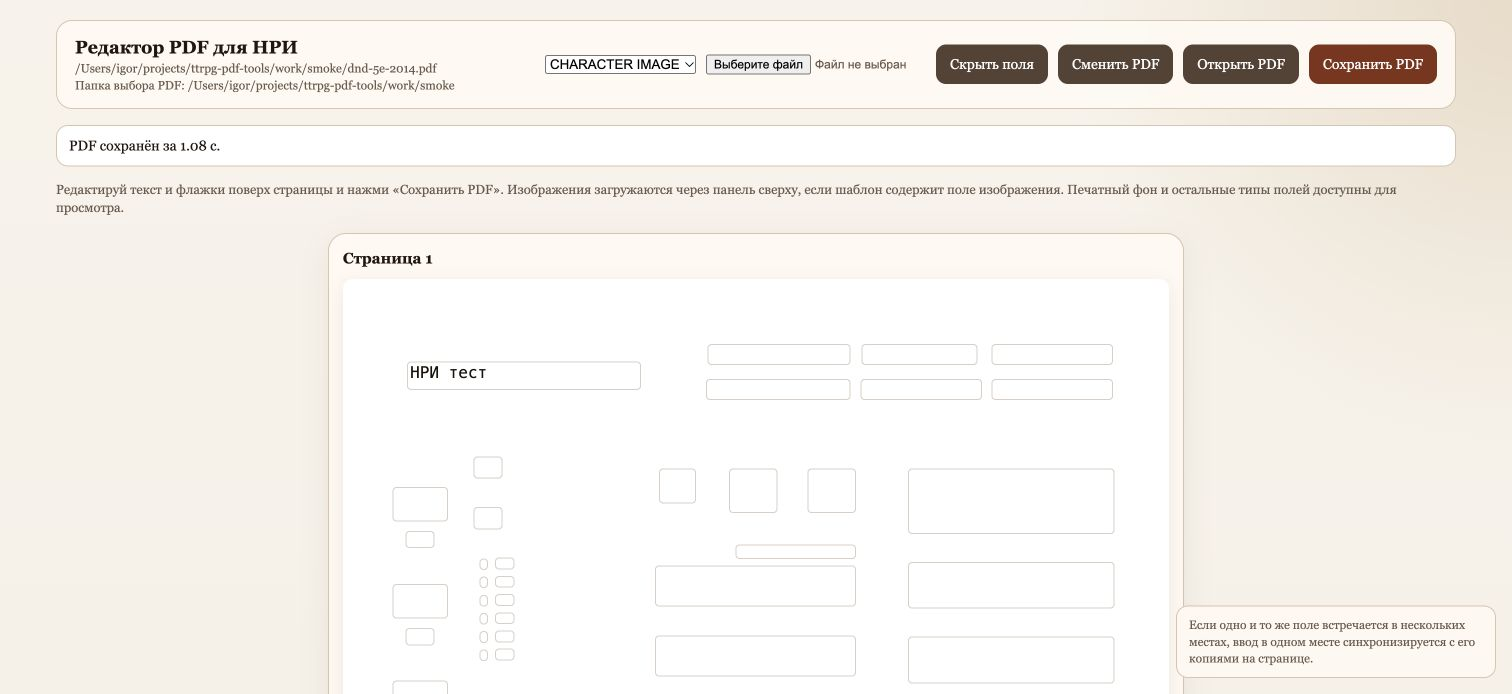
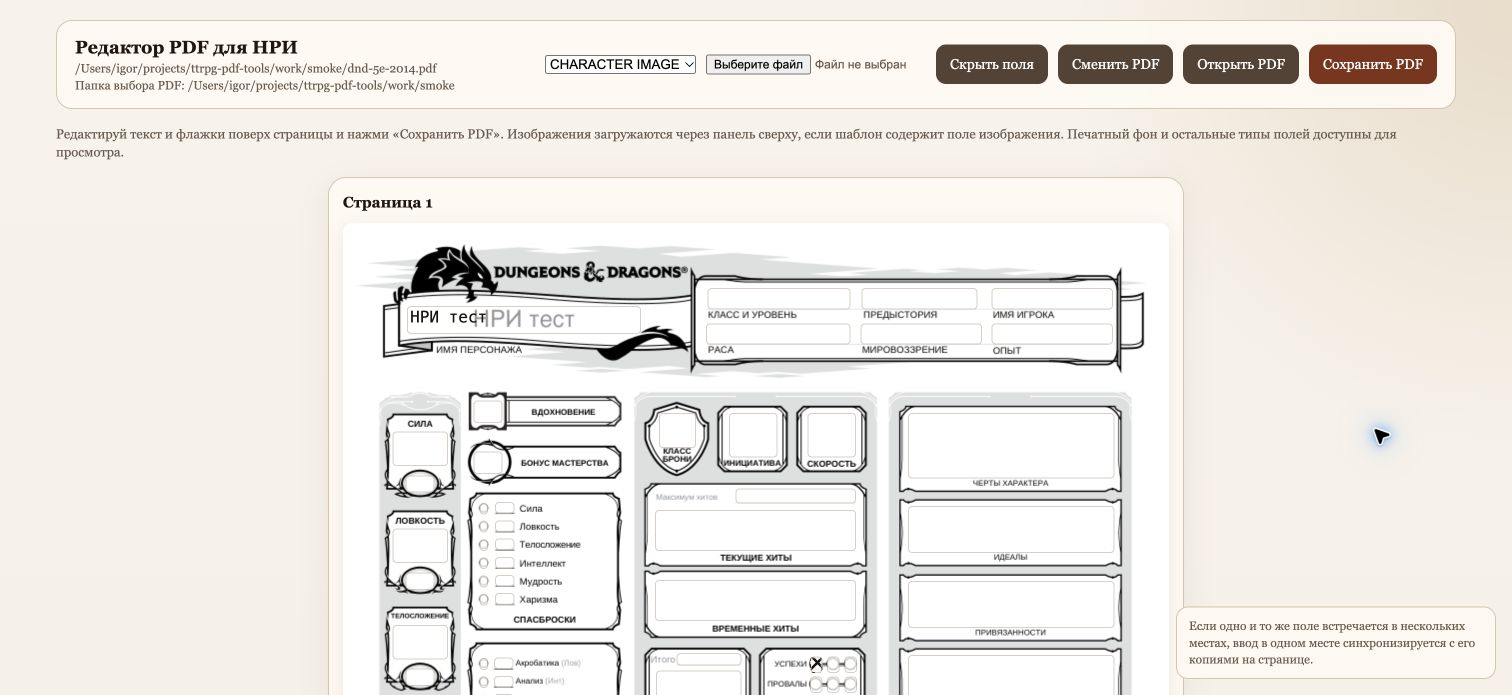
Restore translucent fields for PDF rendering preview

Changed region(s): [[0.0311, 0.1816, 0.9636, 1.0], [0.9015, 0.6052, 0.9325, 0.6657]]

diff --git a/scripts/pdf_form_web_editor.py b/scripts/pdf_form_web_editor.py
@@ -104,7 +104,7 @@ def html_page(title: str, body: str) -> bytes:
       --line: #d7c5af;
       --accent: #7f3119;
       --accent-2: #564235;
-      --field: #fff;
+      --field: rgba(255,255,255,0.82);
       --field-border: rgba(120, 80, 50, 0.28);
     }}
     * {{ box-sizing: border-box; }}
@@ -251,7 +251,7 @@ def html_page(title: str, body: str) -> bytes:
       margin: 0;
       padding: 0;
       border: 1px solid var(--field-border);
-      background: var(--field);
+      background: rgba(255,255,255,0.58);
       color: #17120d;
       border-radius: 4px;
       box-shadow: inset 0 0 0 1px rgba(255,255,255,0.32);
@@ -260,7 +260,7 @@ def html_page(title: str, body: str) -> bytes:
     }}
     .field:focus {{
       outline: 2px solid rgba(127, 49, 25, 0.45);
-      background: var(--field);
+      background: rgba(255,255,255,0.95);
       z-index: 5;
     }}
     .field.text {{
@@ -274,7 +274,7 @@ def html_page(title: str, body: str) -> bytes:
     }}
     .field.checkbox {{
       appearance: none;
-      background: var(--field);
+      background: rgba(255,255,255,0.7);
     }}
     .field.checkbox::after {{
       content: "";
@@ -286,7 +286,7 @@ def html_page(title: str, body: str) -> bytes:
       background:
         linear-gradient(135deg, transparent 40%, #1b1712 40%, #1b1712 53%, transparent 53%),
         linear-gradient(45deg, transparent 58%, #1b1712 58%, #1b1712 71%, transparent 71%),
-        var(--field);
+        rgba(255,255,255,0.92);
     }}
     .legend {{
       position: fixed;

diff --git a/README.md b/README.md
@@ -18,7 +18,7 @@ cp templates/pathfinder-2e/RM_CharacterSheet_Fillable.pdf templates/local/my-cha
 uv run python scripts/pdf_form_web_editor.py templates/local/my-character.pdf --open-browser
 ```
 
-Редактируй текст и флажки поверх страниц, затем нажми **Сохранить PDF**. Подбор размера заполненного текста выполняется при каждом сохранении. Кнопка **Сменить PDF** открывает выбор файлов из `templates/local/`; другой корень задаётся через `--picker-dir /path/to/folder`. Кнопка **Открыть PDF** показывает текущий файл в Chrome. Клавиша `f` и кнопка **Скрыть поля** переключают видимость полей поверх страницы.
+Редактируй текст и флажки поверх страниц, затем нажми **Сохранить PDF**. Подбор размера заполненного текста выполняется при каждом сохранении. Поля полупрозрачны: текст уже сохранённого PDF виден под вводом, чтобы сверять его итоговый размер и положение. Новый ввод появляется в рендере после сохранения. Кнопка **Сменить PDF** открывает выбор файлов из `templates/local/`; другой корень задаётся через `--picker-dir /path/to/folder`. Кнопка **Открыть PDF** показывает текущий файл в Chrome. Клавиша `f` и кнопка **Скрыть поля** переключают видимость полей поверх страницы.
 
 Изображения загружаются через панель сверху, если PDF содержит button/image-поля. При нескольких полях выбери нужное в списке. Печатный фон, списки, радиокнопки и подписи доступны для просмотра; редактор не предлагает их как изменяемый текст. PDF без полей можно просматривать и готовить к доставке, но заполнять его печатный фон этим инструментом нельзя.
 

diff --git a/AGENTS.md b/AGENTS.md
@@ -8,6 +8,7 @@
 - Формы изменять через `scripts/pdf_form_editor.py`: он согласованно обновляет видимые widgets и метаданные. В локализованных D&D-листах использовать `set_skill_values` и `set_skill_proficiencies`; `raw:` оставлять для диагностики или разовой проверки.
 - При пересборке или восстановлении брать заполняемый оригинал нужной системы из `templates/<система>/`; для Pathfinder 2e это `templates/pathfinder-2e/RM_CharacterSheet_Fillable.pdf`. Заполненный лист не заменяет исходный шаблон. После изменения содержимого запускать `scripts/pdf_form_tool.py` для подбора размера текста.
 - Для ручного редактирования использовать `scripts/pdf_form_web_editor.py`. Браузерный просмотрщик и Cursor использовать для просмотра; проверять внешний вид в Chrome или Acrobat-совместимом просмотрщике. Pathfinder-лист не сохранять через macOS Preview: он может разрушить или свести в изображение данные формы.
+- Сохранять полупрозрачность полей web-редактора: под вводом виден текст сохранённого PDF для проверки итогового размера и положения. Размер текста в HTML-поле не заменяет этот предпросмотр; рендер нового ввода обновляется после сохранения.
 
 ## Сохранность и доставка
 
